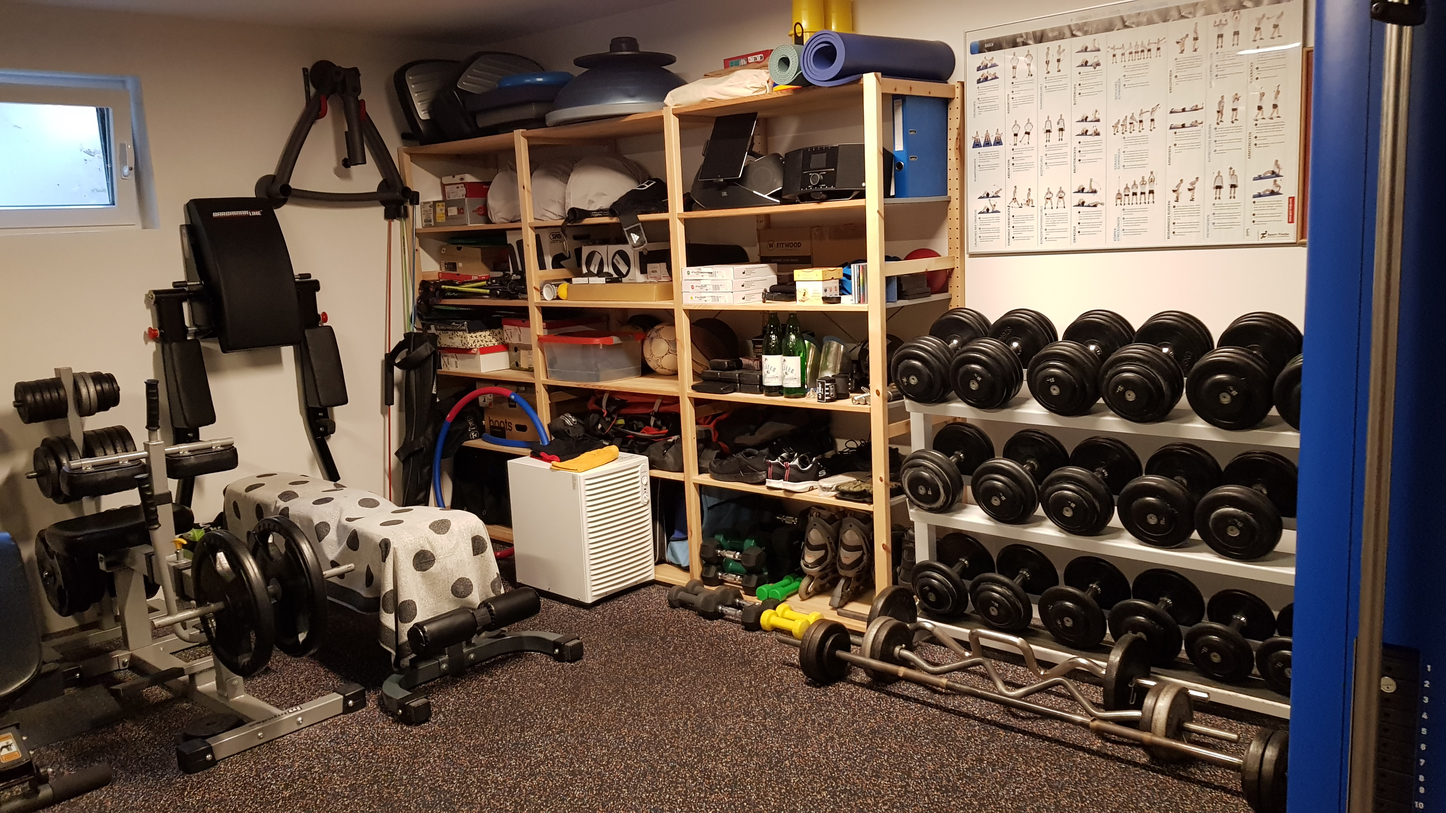
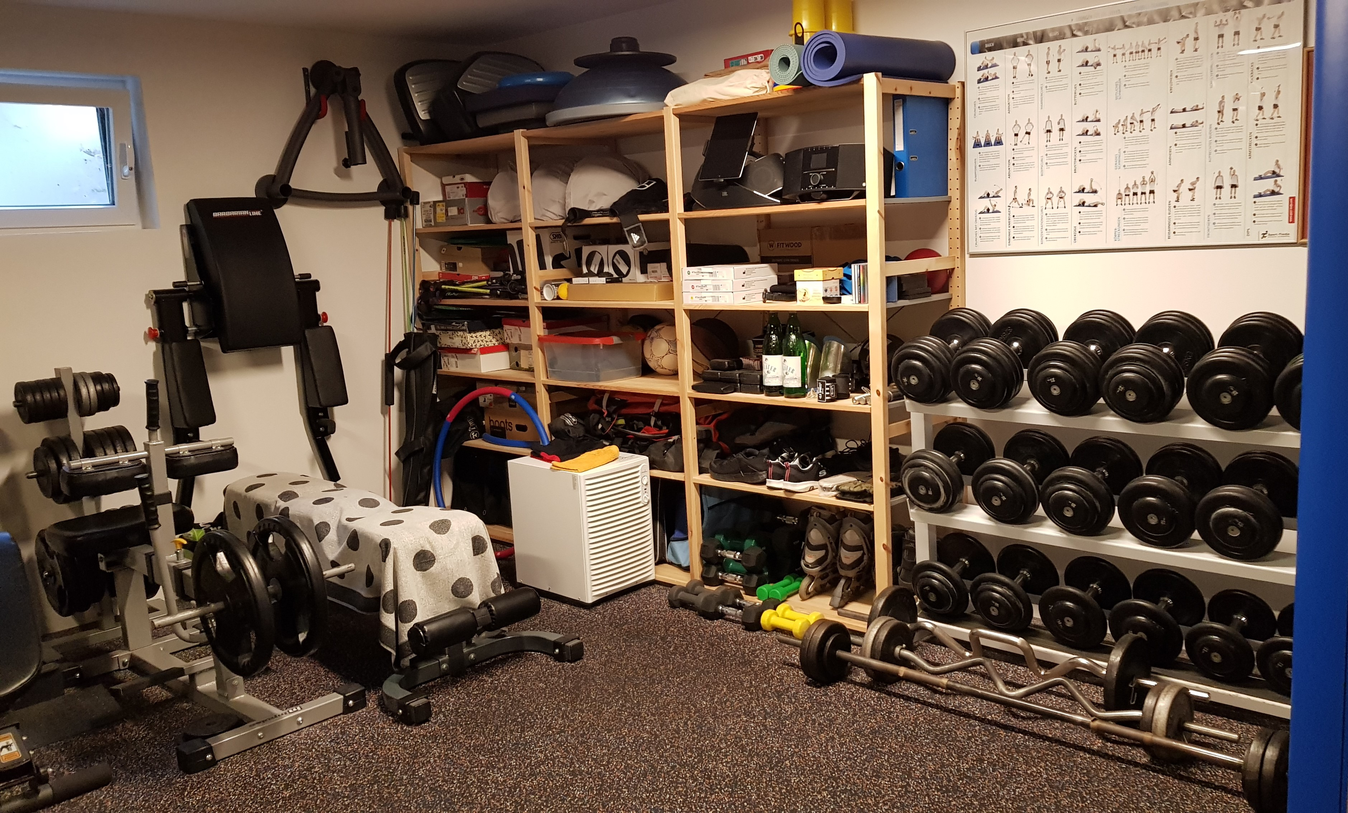
data protection

diff --git a/data-protection.html b/data-protection.html
@@ -31,9 +31,107 @@
 
 
     <div class="content-wrapper">
+        <aside>
+            <div class="aside-container">
+                <p class="greeting">LEGAL INFO</p>
+                <p class="greeting">Dr. Martin Pytlik</p>
+                <br>
+                <h6 class="contact-details">Type of business</h6>
+                <p>Fitness and mental trainer</p>
+                <h6 class="contact-details">Legal form</h6>
+                <p>Small business owner in accordance with Section 6 Paragraph 1 Z 27 UstG</p>
+                <h6 class="contact-details">VAT Registration</h6>
+                <p>Not subject to VAT</p>
+                <p class="greeting">Contact Details</p>
+                <h6 class="contact-details">Address</h6>
+                <p class="contact-details"><a href="https://maps.app.goo.gl/SRwV47cZkjKPauR47"> Volksfestgasse 8d, 7122
+                        Gols</a></p>
+                <h6 class="contact-details">Mobile</h6>
+                <p class="contact-details"><a href="tel:+4367718013945">+43 677 18013945</a></p>
+                <h6 class="contact-details">E-Mail</h6>
+                <p class="contact-details"><a href="mailto:martin.fit@kabelplus.at">martin.fit@kabelplus.at</a></p>
+            </div>
+        </aside>
         <main>
-            <p> test </p>
-            <p> complaint form </p>
+            <div class="sections-wrapper">
+
+                <div class="upper-sections">
+
+                    <section class="data-protection">
+                        <div class="heading-pic">
+                            <img src="assets/data-protection.jpg" alt="Data protection">
+                        </div>
+                        <h2>DATA PROTECTION</h2>
+                        <h3>Data protection declaration</h3>
+                        <p>
+                            The protection of your personal data is important to me. I therefore process your data
+                            exclusively on the basis of the legal regulations (GDPR, DSV, TKG).
+                        </p>
+                        <p>I process personal data that falls into the following data categories:</p>
+                        <ul>
+                            <li><i class="fas fa-lock"></i> First name</li>
+                            <li><i class="fas fa-lock"></i> Telephone number</li>
+                            <li><i class="fas fa-lock"></i> Email address</li>
+                            <li><i class="fas fa-lock"></i> Address</li>
+                        </ul>
+                        <h3>Declaration of consent</h3>
+                        <p>If you book a course or training session with me, you will voluntarily provide me with your
+                            data
+                            and I will process this data based on your consent for the following purposes:</p>
+                        <ul>
+                            <li><i class="fas fa-lock"></i> your care</li>
+                            <li><i class="fas fa-lock"></i> for our own advertising purposes, for example to send offers, advertising brochures and
+                                newsletters (in paper and electronic form)
+                            </li>
+                        </ul>
+                        <h3>Instructions on revocation</h3>
+                        <p>
+                            You can revoke this consent at any time. A revocation means that I will no longer process
+                            your
+                            data for the purposes mentioned above from this point onwards. The cancellation is
+                            sufficient by
+                            email to:
+                        </p>
+                        <p class="contact-details"><a href="mailto:martin.fit@kabelplus.at">martin.fit@kabelplus.at</a>
+                        </p>
+                        <p>I will store your data for a maximum of 6 months after the end of our business relationship.
+                        </p>
+                        <h3>Legal remedies</h3>
+                        <p>
+                            You are generally entitled to all rights to information, correction, deletion, restriction,
+                            data
+                            portability and objection. For this purpose, please contact me in the form below. If you
+                            believe that the processing of
+                            your data violates data protection law or your data protection rights have been violated in
+                            any
+                            other way, you can complain to the supervisory authority.
+                        </p>
+                        <p>For Austria, this is</p>
+                        <a href="https://www.dsb.gv.at/" target="_blank" rel="noopener noreferrer">
+                            <img src="assets/DSB-neu_Logo_srgb.png" alt="DSB Logo" class="odr-logo">
+                        </a>
+
+                    </section>
+
+                    <section class="complaints">
+                        <div class="heading-pic">
+                            <img src="assets/complaints.jpg" alt="Complaints">
+                        </div>
+                        <h2>COMPLAINTS</h2>
+                        <p>You can send your complaints to the EU's Online Dispute Resolution (ODR) platform</p>
+                        <a href="http://ec.europa.eu/odr" target="_blank" rel="noopener noreferrer">
+                            <img src="assets/ODR_Logo.png" alt="ODR Logo" class="odr-logo">
+                        </a>
+                        <p>or you can address it to me in the form below</p>
+                    </section>
+
+                </div>
+
+                <section class="contact-form">
+                    <p>contact form here</p>
+                </section>
+
+            </div>
         </main>
     </div>
 

diff --git a/data-protection.css b/data-protection.css
@@ -1,0 +1,56 @@
+ul {
+    list-style: none; /* Removes default list bullets */
+    padding-left: 0; /* Removes default padding */
+    margin: 0; /* Removes default margin */
+}
+
+li {
+    position: relative; /* Needed for absolute positioning of the icon */
+    padding-left: 2em; /* Space for the icon */
+    margin-bottom: 0.5em; /* Space between list items */
+}
+
+li .fas,
+li .far {
+    position: absolute; /* Position icon absolutely within the li */
+    left: 0; /* Align icon to the left edge of li */
+    top: 0; /* Align icon to the top of li */
+    margin-top: 0.1em; /* Adjust vertical alignment of the icon */
+    /* Adjust the size of the icon if needed */
+}
+
+
+.odr-logo {
+    width: 250px;
+    height: auto;
+}
+
+.sections-wrapper {
+    display: flex;
+    flex-direction: column;
+}
+
+.upper-sections {
+    display: flex;
+    justify-content: space-between;
+    /* If you want the two sections to have some space between them */
+    gap: 60px;
+}
+
+.complaints, 
+.data-protection {
+    flex: 1; /* This will make them take up equal space next to each other */
+    /* Set a max-width if you want to control how wide these sections can be */
+}
+
+.contact-form {
+    width: 100%; /* This will make the contact form take up the full width */
+    /* Add any additional styling for the contact form here */
+    padding: 1em; /* Example padding */
+}
+
+.heading-pic img {
+    width: 100%; /* Makes the image fill the container */
+    height: auto; /* Maintains aspect ratio */
+    border-radius: 2%;
+}

diff --git a/trainings.html b/trainings.html
@@ -44,7 +44,7 @@
                             </div>
                         </div>
                     </div>
-                    <img src="assets/home-fit-2.jpg" alt="Fitness Training">
+                    <img src="assets/home-fit-1.jpg" alt="Fitness Training">
                 </div>
                 <div class="card-header">
                     <div class="title">FITNESS TRAINING</div>

diff --git a/styles.css b/styles.css
@@ -5,3 +5,4 @@
 @import url(typography.css);
 @import url(layout.css);
 @import url(cards.css);
+@import url(data-protection.css);
